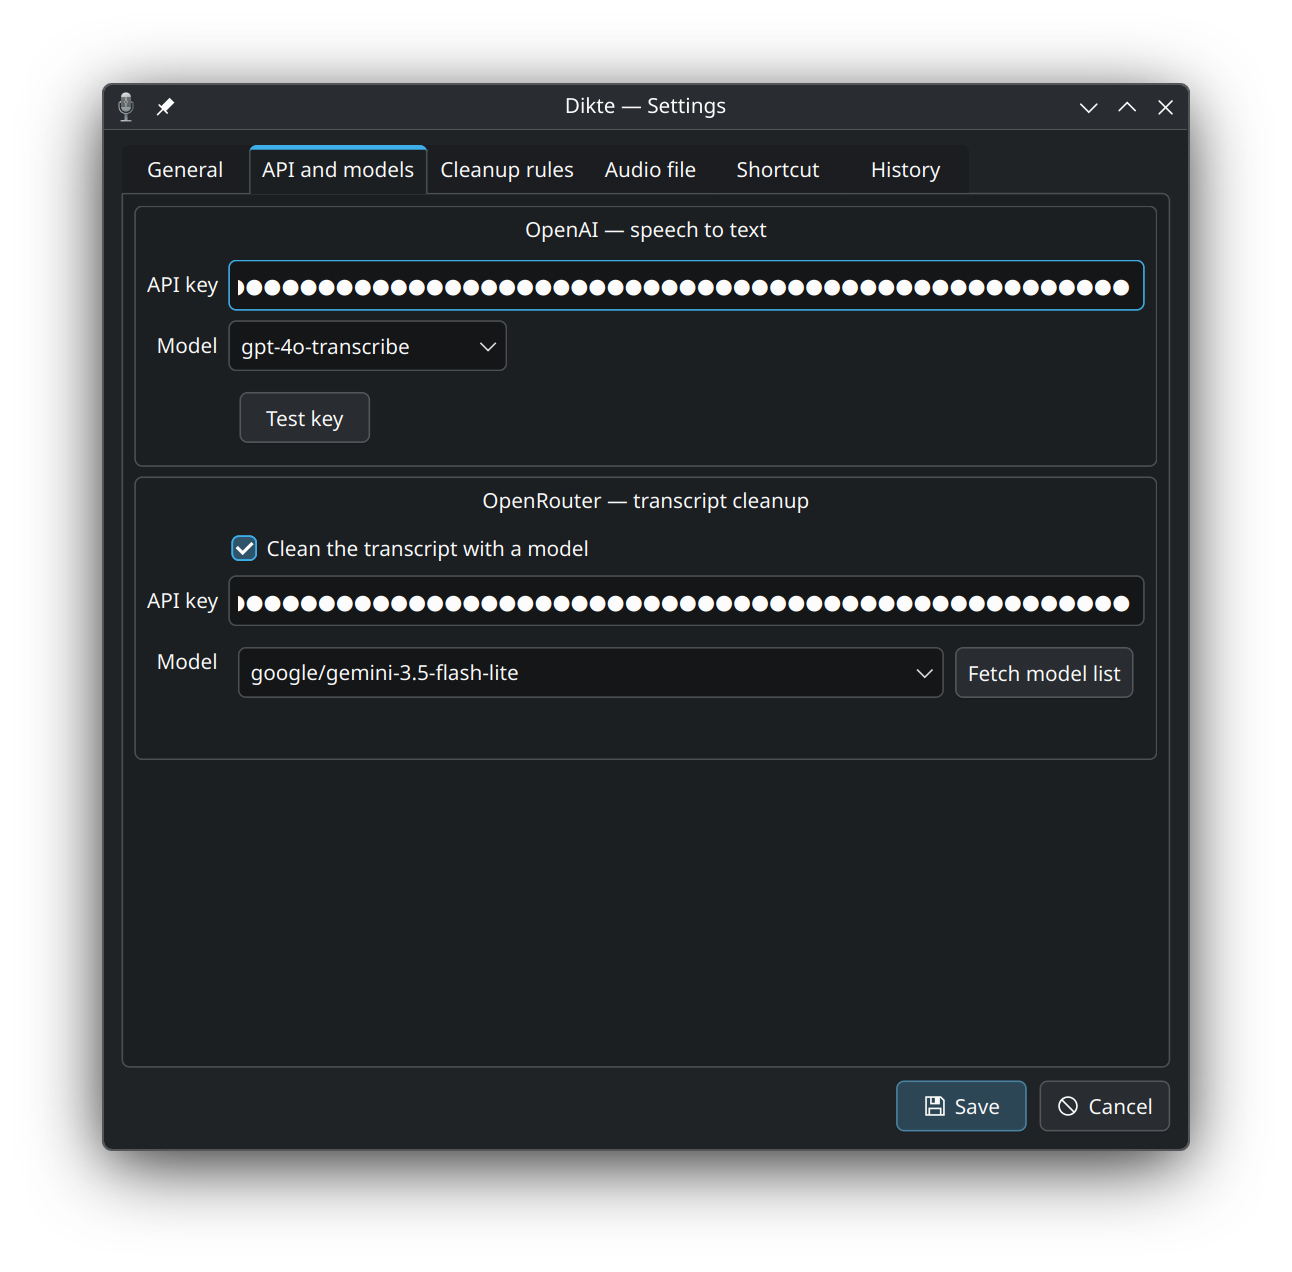
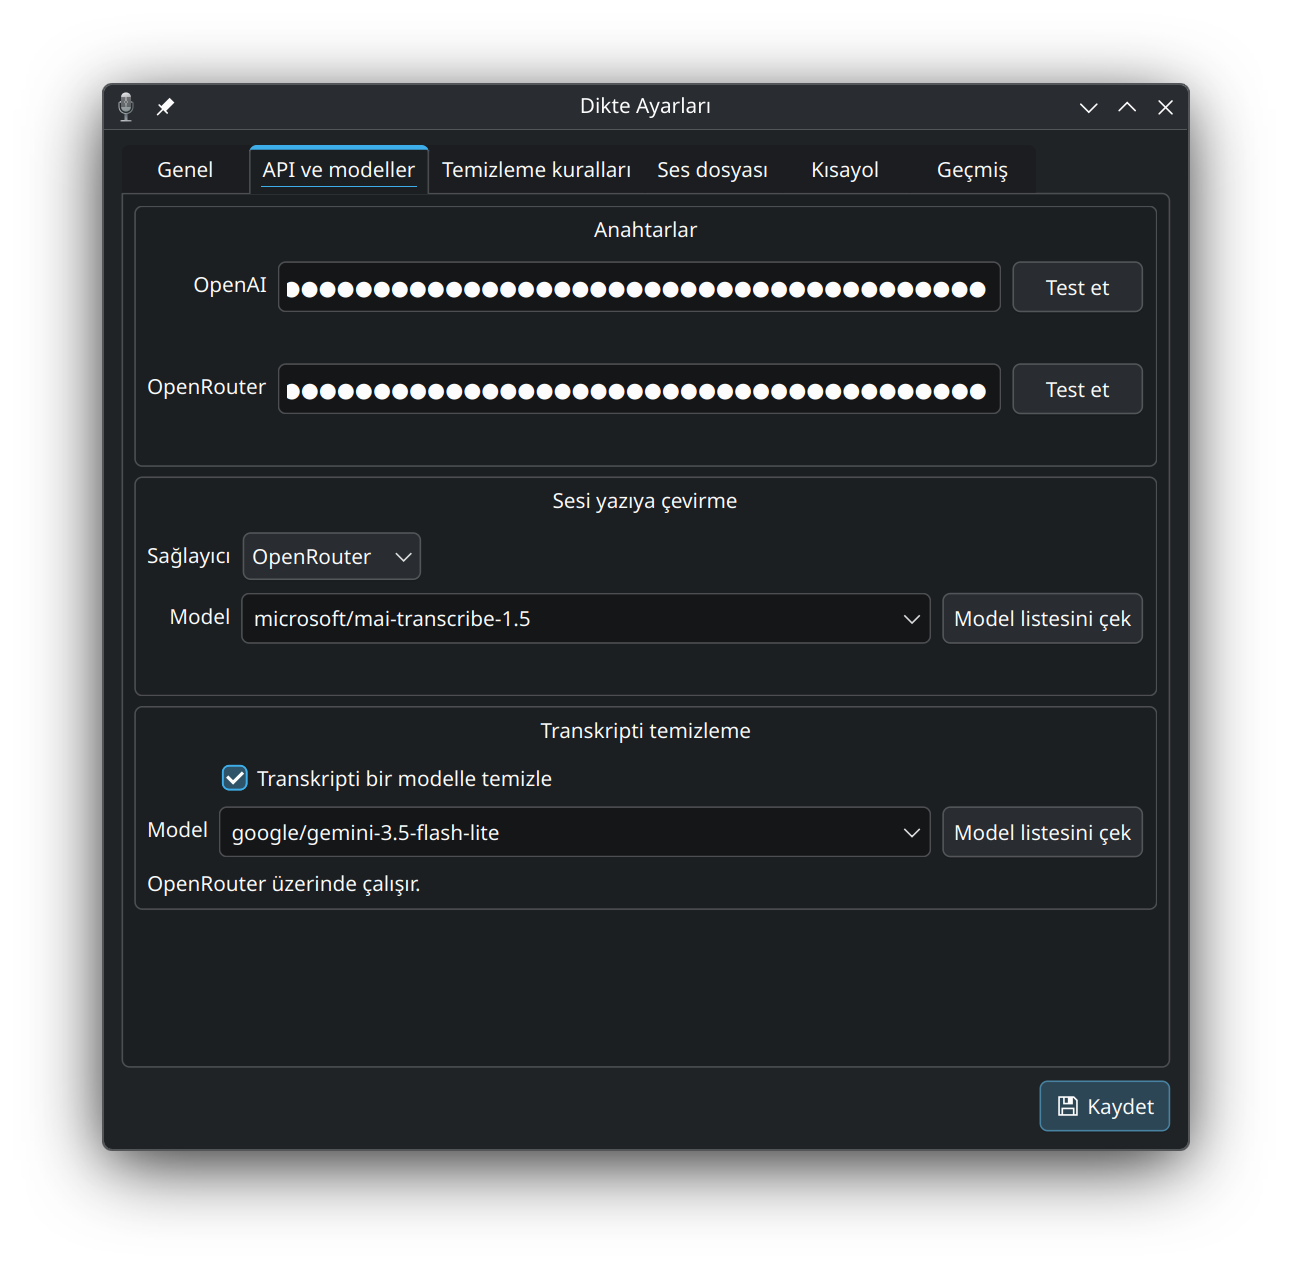
Drop the provider note, and reshoot the API tab
The line under Speech to text repeated the provider box directly above it,
so nothing was lost by removing it.

diff --git a/settings_ui.py b/settings_ui.py
@@ -211,11 +211,8 @@ class SettingsWindow(QDialog):
         self.refresh_transcribe_models.clicked.connect(self._load_transcribe_models)
         stt_form.addRow(t("Model"),
                         self._row(self.transcribe_model, self.refresh_transcribe_models))
-        # Spanning rows: in the narrow field column a wrapped label gets a height
-        # that fits one line, and the rest of the text is cut off.
-        self.transcribe_note = QLabel("")
-        self.transcribe_note.setWordWrap(True)
-        stt_form.addRow(self.transcribe_note)
+        # A spanning row: in the narrow field column a wrapped label gets a
+        # height that fits one line, and the rest of the text is cut off.
         self.transcribe_status = QLabel("")
         self.transcribe_status.setWordWrap(True)
         stt_form.addRow(self.transcribe_status)
@@ -533,12 +530,6 @@ class SettingsWindow(QDialog):
         self.transcribe_model.addItems(TRANSCRIBE_MODELS[provider])
         self.transcribe_model.setCurrentText(self._models[provider])
         self.transcribe_status.setText("")
-        self.transcribe_note.setText(
-            t("Runs on OpenRouter, with the key above. Word hints reach the "
-              "cleanup model only.")
-            if provider == "openrouter" else
-            t("Runs on OpenAI, with the key above.")
-        )
 
     def _load_transcribe_models(self):
         """The model list of whichever provider is selected."""

diff --git a/i18n.py b/i18n.py
@@ -154,12 +154,6 @@ TR = {
     "sk-or-… (falls back to OPENROUTER_API_KEY)": "sk-or-… (boşsa OPENROUTER_API_KEY kullanılır)",
     "Test": "Test et",
     "Trying…": "Deneniyor…",
-    "Runs on OpenAI, with the key above.":
-        "Yukarıdaki anahtarla OpenAI üzerinde çalışır.",
-    "Runs on OpenRouter, with the key above. Word hints reach the cleanup "
-    "model only.":
-        "Yukarıdaki anahtarla OpenRouter üzerinde çalışır. Kelime ipuçları "
-        "yalnızca temizleme modeline gider.",
     "Runs on OpenRouter.": "OpenRouter üzerinde çalışır.",
     "Connection works. {count} audio models visible.":
         "Bağlantı tamam. {count} ses modeli görünüyor.",
